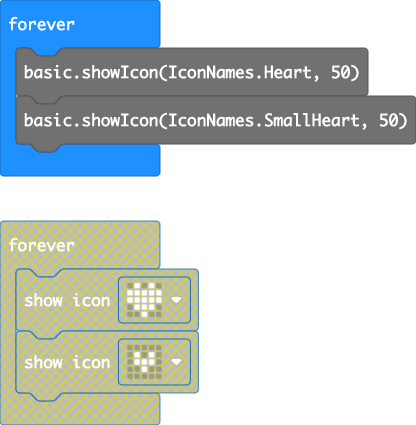
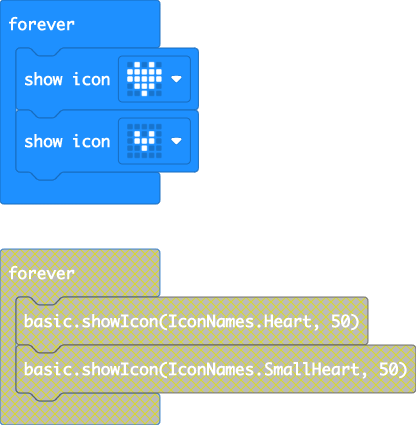
Update main.blocks, main.ts, main.py

diff --git a/main.ts b/main.ts
@@ -1,4 +1,4 @@
 basic.forever(function () {
-    basic.showIcon(IconNames.Heart, 50)
-basic.showIcon(IconNames.SmallHeart, 50)
+    basic.showIcon(IconNames.Heart)
+    basic.showIcon(IconNames.SmallHeart)
 })

diff --git a/main.py b/main.py
@@ -1,4 +1,4 @@
 def on_forever():
-    basic.show_icon(IconNames.HEART,50)
-    basic.show_icon(IconNames.SMALL_HEART,50)
+    basic.show_icon(IconNames.HEART)
+    basic.show_icon(IconNames.SMALL_HEART)
 basic.forever(on_forever)
